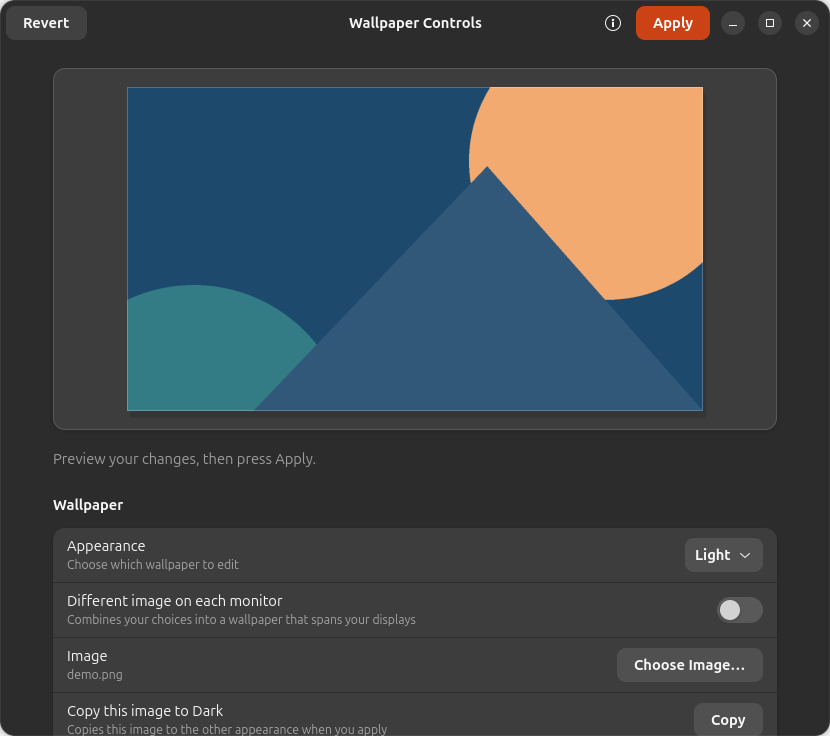
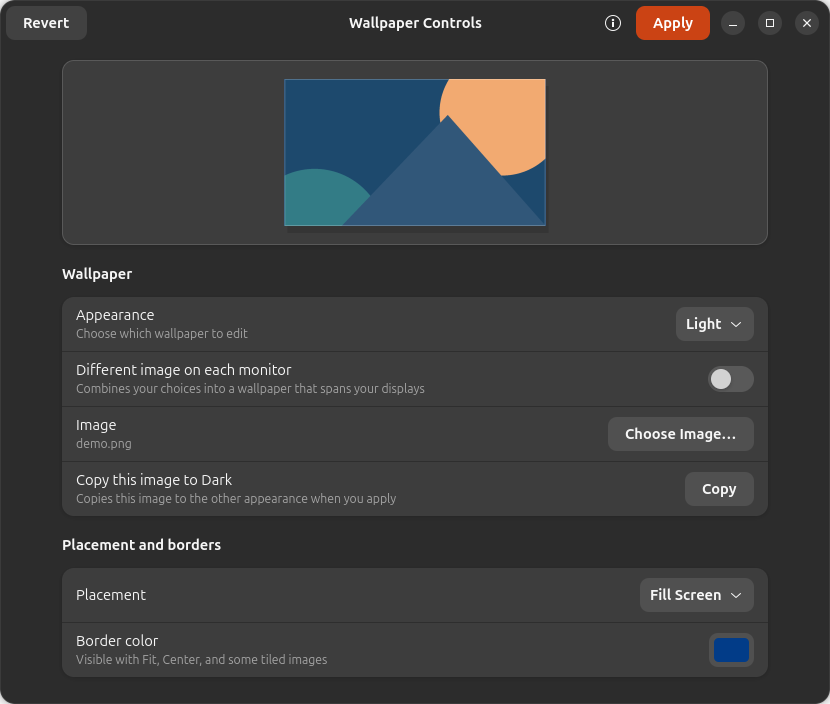
Fit wallpaper controls on smaller screens

diff --git a/wallpaper_controls.py b/wallpaper_controls.py
@@ -22,7 +22,7 @@ from monitor_state import (PICTURE_KEYS, clean_old_wallpapers, cloned,
 
 
 APP_ID = "io.github.nc4wd.WallpaperControls"
-APP_VERSION = "0.1.0"
+APP_VERSION = "0.1.1"
 PROJECT_URL = "https://github.com/NC4WD/WallpaperControls"
 BACKGROUND_SCHEMA = "org.gnome.desktop.background"
 PLACEMENTS = (
@@ -62,10 +62,10 @@ def file_from_uri(uri):
 
 
 class WallpaperPreview(Gtk.DrawingArea):
-    def __init__(self):
+    def __init__(self, height):
         super().__init__()
-        self.set_content_width(720)
-        self.set_content_height(360)
+        self.set_content_width(400)
+        self.set_content_height(height)
         self.set_hexpand(True)
         self.set_vexpand(False)
         self.set_draw_func(self.draw)
@@ -201,7 +201,16 @@ class WallpaperPreview(Gtk.DrawingArea):
 class WallpaperWindow(Adw.ApplicationWindow):
     def __init__(self, app):
         super().__init__(application=app, title="Wallpaper Controls")
-        self.set_default_size(830, 750)
+        display = Gdk.Display.get_default()
+        monitor_model = display.get_monitors()
+        geometries = [monitor_model.get_item(index).get_geometry()
+                      for index in range(monitor_model.get_n_items())]
+        screen_width = min((geometry.width for geometry in geometries), default=1366)
+        screen_height = min((geometry.height for geometry in geometries), default=768)
+        window_width = max(320, min(830, screen_width - 48))
+        window_height = max(420, min(820, screen_height - 64))
+        self.set_default_size(window_width, window_height)
+        preview_height = max(160, min(240, round(window_height * 0.26)))
         self.settings = Gio.Settings.new(BACKGROUND_SCHEMA)
         self.selected_key = active_wallpaper_key()
         self.refreshing = False
@@ -210,8 +219,8 @@ class WallpaperWindow(Adw.ApplicationWindow):
         self.draft = self.saved.copy()
         self.config_saved = load_config(self.saved)
         self.config_draft = cloned(self.config_saved)
-        self.monitor_model = Gdk.Display.get_default().get_monitors()
-        self.monitor_specs = monitors_from_display(Gdk.Display.get_default())
+        self.monitor_model = monitor_model
+        self.monitor_specs = monitors_from_display(display)
         self.layout_dirty = (self.config_saved["enabled"] and
                              layout_signature(self.monitor_specs) != self.config_saved["layout"])
         self.placement_mode_is_multi = False
@@ -226,6 +235,7 @@ class WallpaperWindow(Adw.ApplicationWindow):
         header.pack_start(self.revert_button)
         self.apply_button = Gtk.Button(label="Apply")
         self.apply_button.add_css_class("suggested-action")
+        self.apply_button.set_tooltip_text("Apply the previewed changes to your desktop")
         self.apply_button.connect("clicked", self.on_apply)
         header.pack_end(self.apply_button)
         about_button = Gtk.Button.new_from_icon_name("help-about-symbolic")
@@ -238,19 +248,20 @@ class WallpaperWindow(Adw.ApplicationWindow):
 
         scroll = Gtk.ScrolledWindow()
         scroll.set_policy(Gtk.PolicyType.NEVER, Gtk.PolicyType.AUTOMATIC)
+        scroll.set_overlay_scrolling(False)
         toolbar.set_content(scroll)
         clamp = Adw.Clamp()
         clamp.set_maximum_size(760)
         clamp.set_tightening_threshold(620)
         scroll.set_child(clamp)
-        content = Gtk.Box(orientation=Gtk.Orientation.VERTICAL, spacing=20)
-        content.set_margin_top(22)
-        content.set_margin_bottom(30)
+        content = Gtk.Box(orientation=Gtk.Orientation.VERTICAL, spacing=12)
+        content.set_margin_top(14)
+        content.set_margin_bottom(18)
         content.set_margin_start(18)
         content.set_margin_end(18)
         clamp.set_child(content)
 
-        self.preview = WallpaperPreview()
+        self.preview = WallpaperPreview(preview_height)
         preview_frame = Gtk.Frame()
         preview_frame.add_css_class("card")
         preview_frame.set_child(self.preview)
@@ -259,6 +270,7 @@ class WallpaperWindow(Adw.ApplicationWindow):
         self.hint.set_halign(Gtk.Align.START)
         self.hint.set_wrap(True)
         self.hint.add_css_class("dim-label")
+        self.hint.set_visible(False)
         content.append(self.hint)
 
         image_group = Adw.PreferencesGroup(title="Wallpaper")
@@ -411,14 +423,15 @@ class WallpaperWindow(Adw.ApplicationWindow):
                                          placement, self.draft["primary-color"],
                                          scale=scale, allow_missing=True)
                 self.preview.update_composite(image, self.monitor_specs)
-                self.hint.set_text("Preview your monitor layout, then press Apply.")
+                self.hint.set_visible(False)
             except (OSError, ValueError, GLib.Error) as error:
                 self.preview.update("", "zoom", color)
                 self.preview.placeholder_label = "Preview unavailable"
                 self.hint.set_text(str(error))
+                self.hint.set_visible(True)
         else:
             self.preview.update(uri, placement, color)
-            self.hint.set_text("Preview your changes, then press Apply.")
+            self.hint.set_visible(False)
         changed = self.has_changes()
         self.apply_button.set_sensitive(changed)
         self.revert_button.set_sensitive(changed)
@@ -632,6 +645,7 @@ class WallpaperWindow(Adw.ApplicationWindow):
         except (OSError, ValueError, GLib.Error, MemoryError) as error:
             self.settings.revert()
             self.hint.set_text(str(error))
+            self.hint.set_visible(True)
             return
         finally:
             self.applying = False

diff --git a/RELEASING.md b/RELEASING.md
@@ -13,12 +13,11 @@ name must remain `WallpaperControls` to match the application ID
 3. Test `./install.sh`, the app window, the Files action, and `./uninstall.sh`
    on a clean GNOME user account. Test the per-monitor result with two physical
    displays, including a Light/Dark switch and a changed display layout.
-4. Create a public GitHub repository named `WallpaperControls` under `NC4WD`,
-   put this folder at its root, and push the reviewed source.
-5. Review the real app screenshots in `assets/screenshots/` and the AppStream
-   metadata. The screenshot URLs are pinned to `v0.1.0`.
-6. Tag the reviewed version `v0.1.0` and publish a GitHub release. Make sure
-   both screenshot URLs in AppStream resolve from that tag.
+4. Push the reviewed source to the public GitHub repository.
+5. Review the real app screenshot in `assets/screenshots/` and update its
+   AppStream URL to point to the release tag.
+6. Tag the reviewed version and publish a GitHub release. Make sure the
+   screenshot URL in AppStream resolves from that tag.
 
 ## Flathub status
 

diff --git a/CHANGELOG.md b/CHANGELOG.md
@@ -1,5 +1,10 @@
 # Changelog
 
+## 0.1.1 — 2026-10-03
+
+- Sized the window for the smallest connected display and made the preview more compact.
+- Kept the main controls visible on a 768-pixel-tall screen, with a visible scrollbar when more rows are needed.
+
 ## 0.1.0 — 2026-10-03
 
 - Added a GTK4/libadwaita window with wallpaper preview and Apply/Revert controls.

diff --git a/README.md b/README.md
@@ -6,8 +6,6 @@ settings panels and shows a preview before anything changes.
 
 ![Wallpaper Controls preview and Apply button](assets/screenshots/main.png)
 
-![Placement and border controls](assets/screenshots/placement.png)
-
 ## Features
 
 - Fill, Fit, Stretch, Center, Tile, and Span Displays
